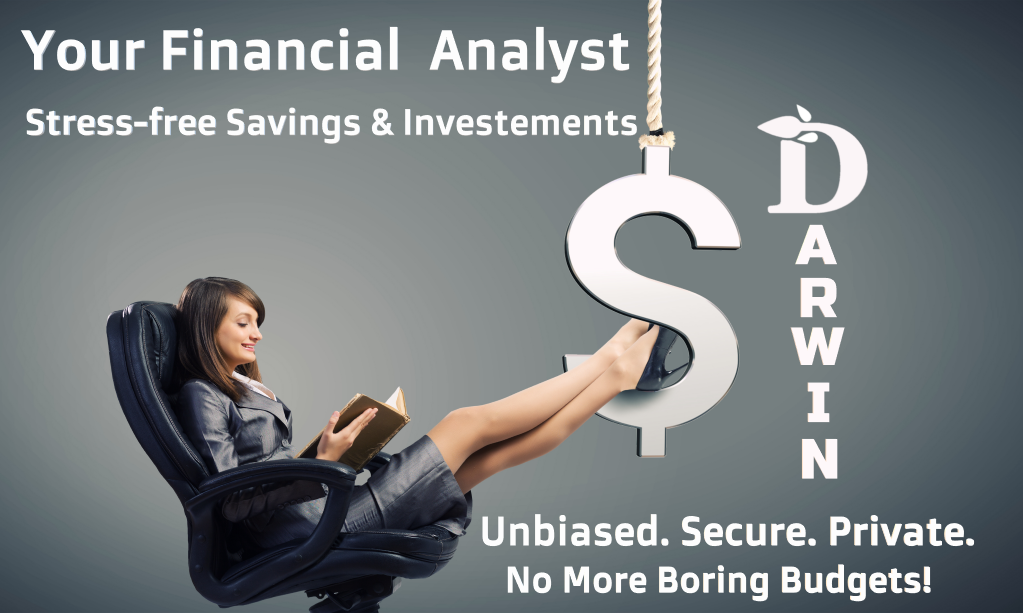
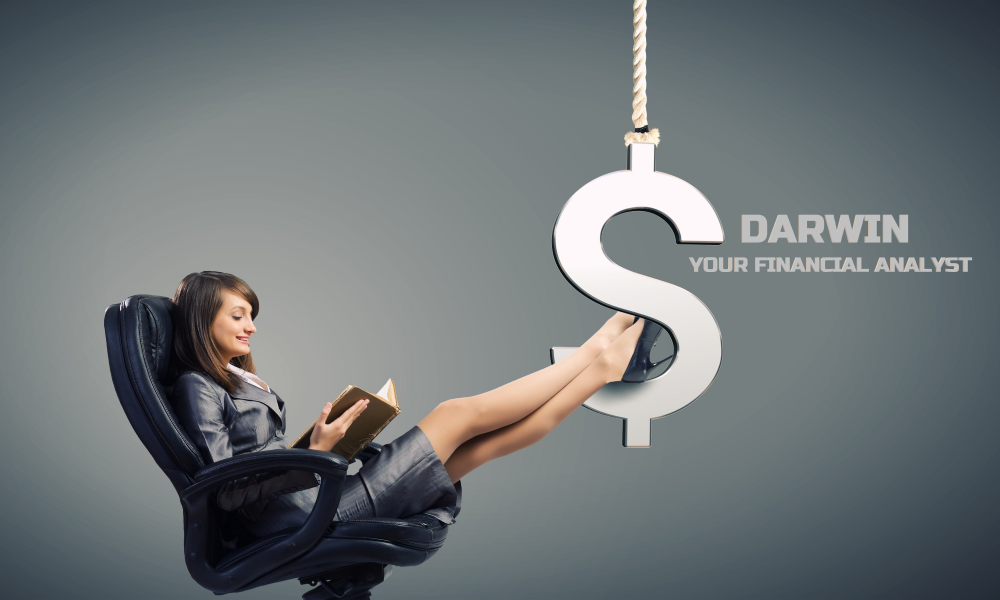
Updated image

diff --git a/src/components/landing.tsx b/src/components/landing.tsx
@@ -33,10 +33,10 @@ const Landing = () => {
       className="mt-12 text-white overflow-hidden bg-contain bg-no-repeat w-screen"
       style={{
         height: `${coverHeight}px`,
-        backgroundImage: `url('images/relaxedwoman.jpeg')`,
+        backgroundImage: `url('images/relaxedwoman.png')`,
       }}
     >
-      <div className="w-full h-full flex flex-col items-end justify-center md:pr-20">
+      <div className="w-full h-full flex flex-col items-end justify-center mt-8 md:pr-20">
         <Link href={ROUTES.DASHBOARD}>
           <a>
             <AwesomeButton

diff --git a/src/components/header.tsx b/src/components/header.tsx
@@ -29,7 +29,7 @@ const Header = () => {
             </Link>
           </div>
         </div>
-        <div className="hover:text-green-primary">
+        <div className="hover:text-green-primary mr-2 md:mr-4">
           <Link href={ROUTES.DASHBOARD}>
             <a>Login</a>
           </Link>
